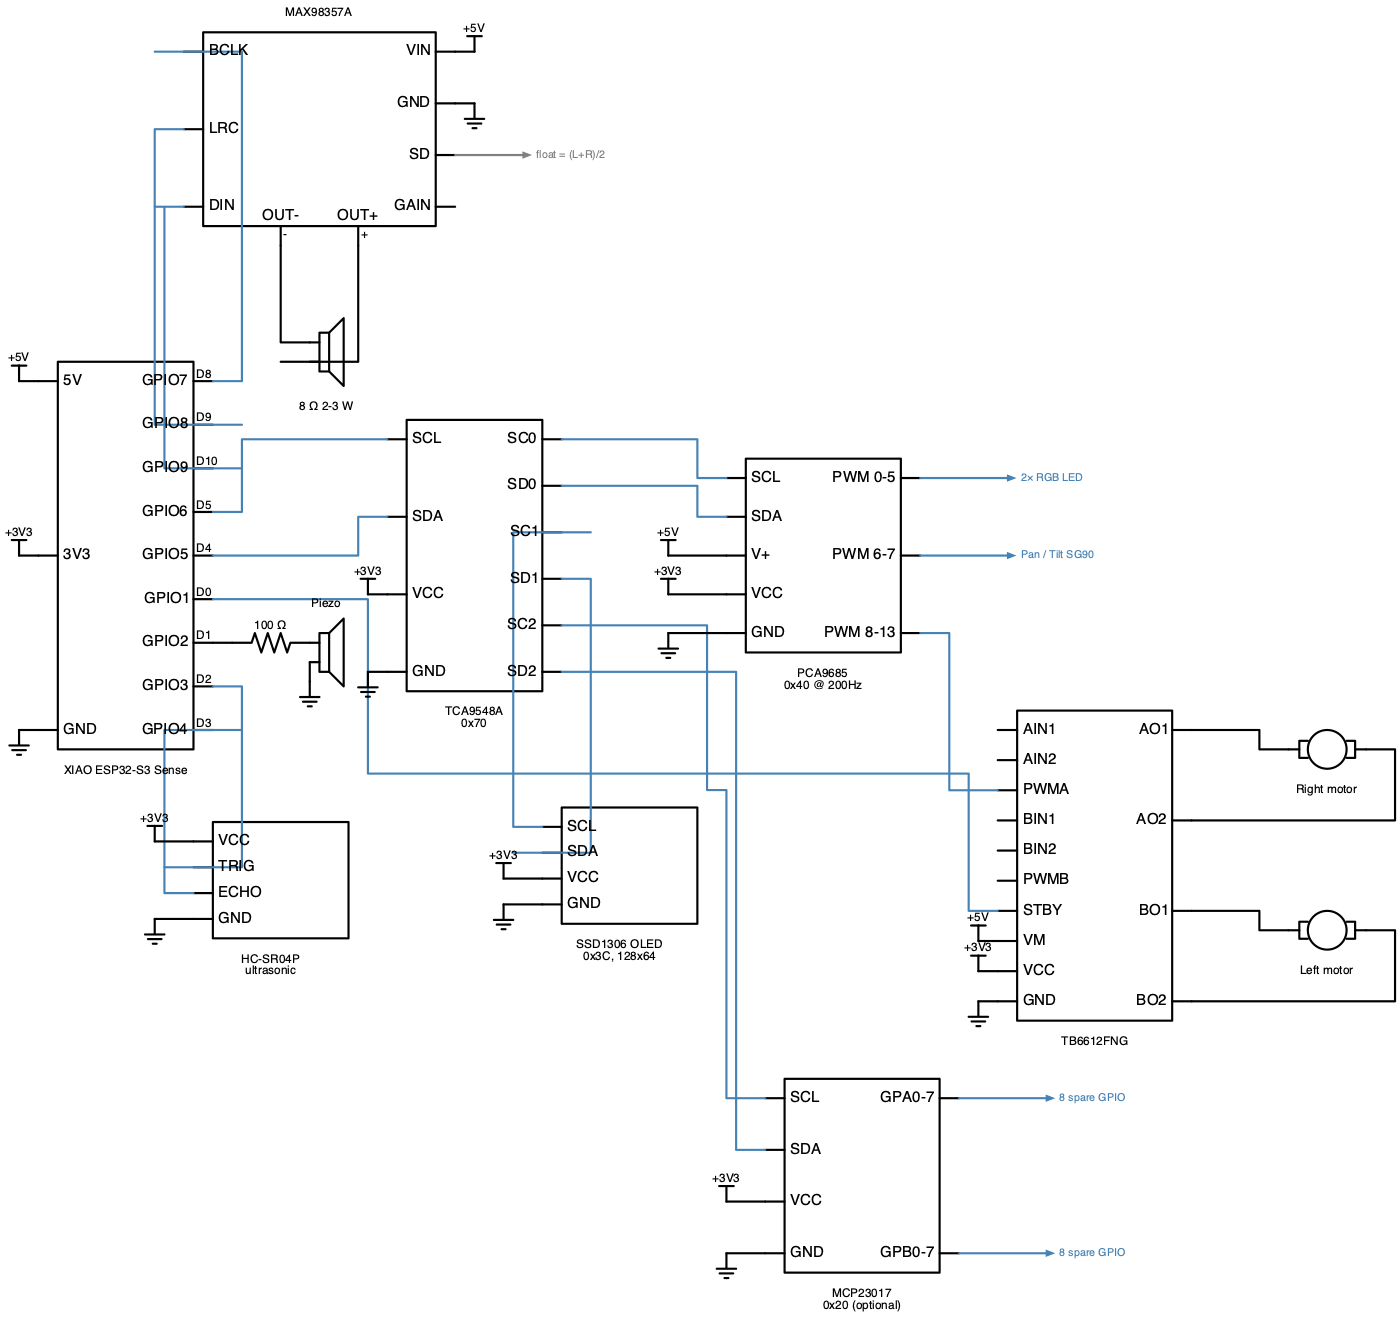
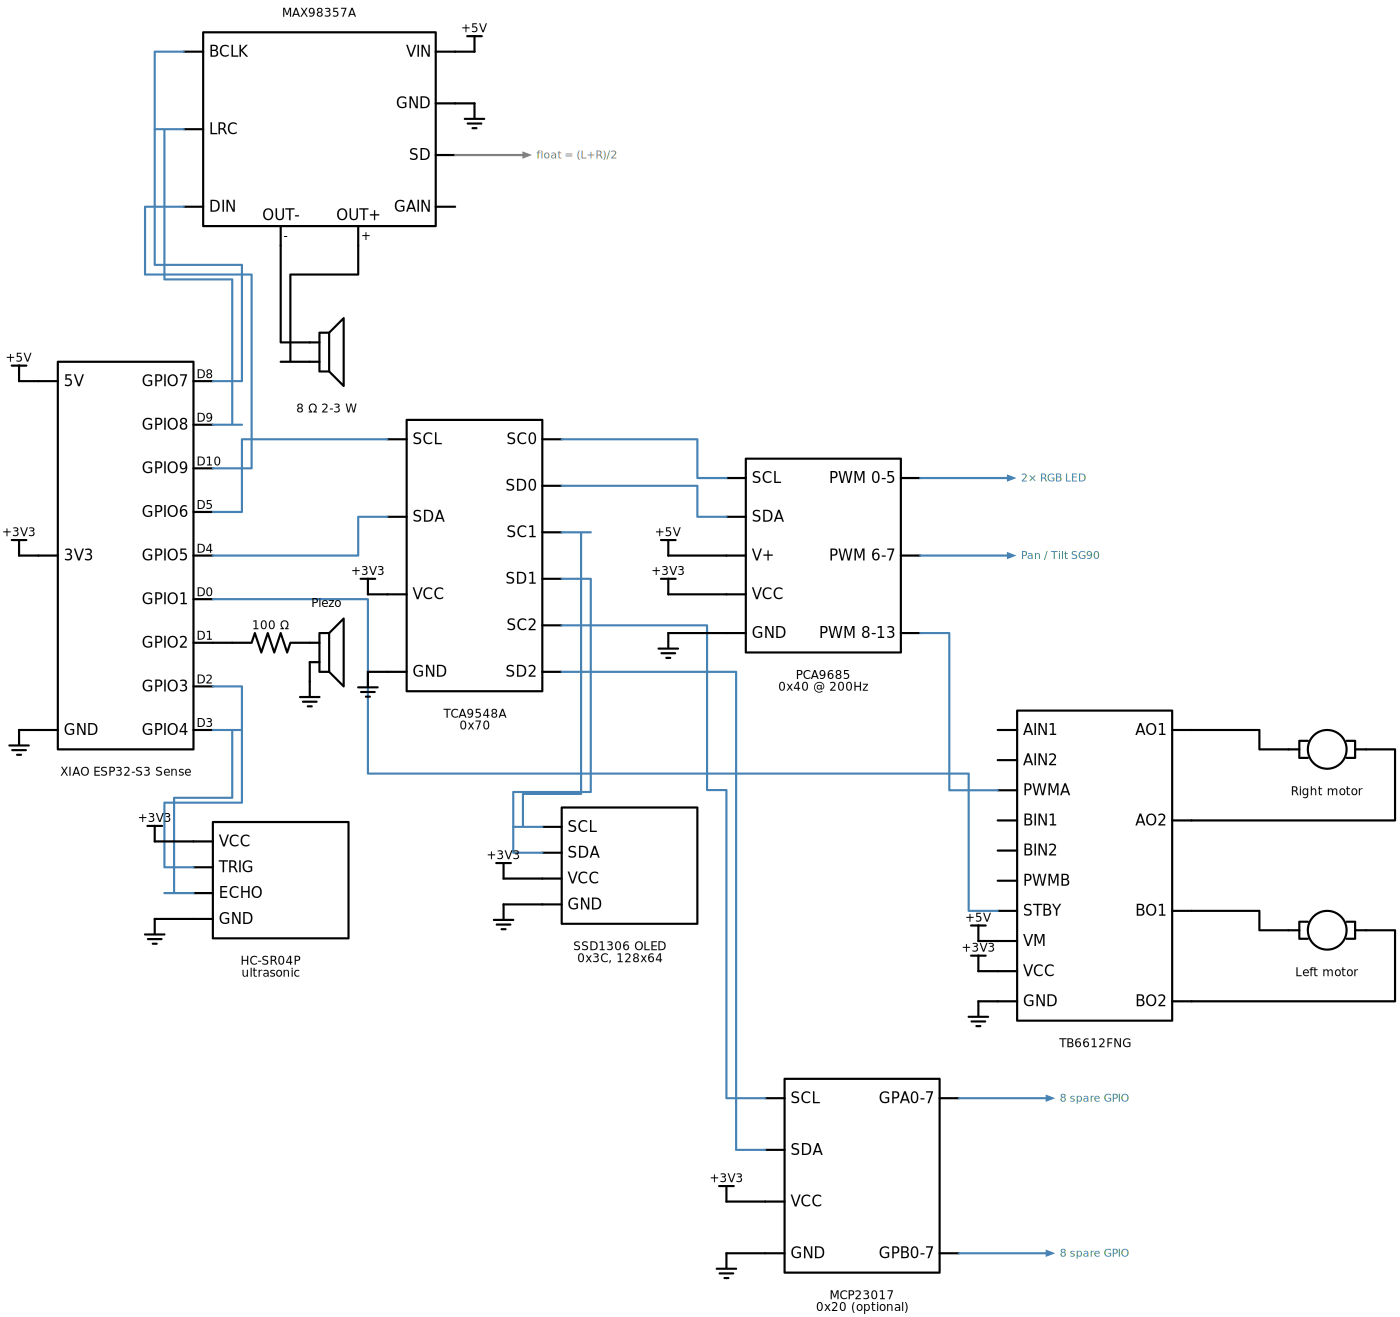
fix(schematics): stop wires tunnelling through their own terminal chip
Router.wire() dropped every box containing either raw endpoint from the
obstacle list for the whole A* search, so a net could enter its
destination chip on one side and leave on the other. The exclusion now
tests the stub points the search actually runs between: a box is dropped
only when its inflated footprint swallows a stub AND the raw box holds
that stub's pin - the overlapping-breakout case the old comment gave as
the reason for excluding at all. The pin's own chip, which the stub
already clears, stays an obstacle; a foreign box swallowing a stub
without holding its pin still fails fast (test_unreachable_goal_fails_fast).

The real-circuit fixture used to exempt exactly the boxes wire() dropped,
so it could never observe the cut-through (6 passed on the broken
geometry). It now trims a stub (+ half a grid step, for the snap) off
each end and exempts only boxes the trimmed ends still sit in. It fails
on the pre-fix code, as do two new tests: a synthetic GPIO5 -> GAIN wire
that must go around the amp, and a robocar_unified inside-body bound via
metrics.py. A third test keeps the overlapping-box case routable.

Metrics (uv run python metrics.py), before -> after:
  balancebot       len 100.65 -> 100.65  in_any  0.00 -> 0.00  cross  4 -> 4   tight 1 -> 1
  gamepad_synth    len  27.90 ->  27.90  in_any  3.83 -> 1.48  cross  0 -> 1   tight 0 -> 1
  robocar_unified  len 193.89 -> 194.89  in_any 26.43 -> 0.00  cross 11 -> 25  tight 2 -> 15
[…]

diff --git a/docs/schematics/test_routing.py b/docs/schematics/test_routing.py
@@ -135,6 +135,56 @@ def test_own_component_is_not_treated_as_an_obstacle():
     router.wire(esp.GPIO7, amp.DIN)
 
 
+def _abspoints(el):
+    at = el._userparams["at"]
+    return [(at[0] + x, at[1] + y) for x, y in el.segments[0].path]
+
+
+def _box_of(el) -> _BBox:
+    return _BBox(*el.get_bbox(transform=True, includetext=False))
+
+
+def test_wire_does_not_cut_through_its_own_destination_chip():
+    # Regression (#490): wire() used to drop every box containing either
+    # endpoint from the obstacle list for the *whole* search, so a net whose
+    # pin sits on the far side of its destination chip took the short way —
+    # straight in one side of the body and out the other. GAIN is on the
+    # amp's right edge, facing away from the ESP32; the only honest route
+    # goes around the amp.
+    d, esp, amp = _build_two_chip_drawing()
+    el = Router(d).wire(esp.GPIO5, amp.GAIN)
+    abspoints = _abspoints(el)
+    amp_box = _box_of(amp)
+
+    _segments_are_orthogonal(abspoints)
+    for p1, p2 in zip(abspoints, abspoints[1:]):
+        assert not _segment_hits_box(p1, p2, amp_box), (
+            f"routed segment {p1} -> {p2} cuts through its own chip {amp_box}"
+        )
+
+
+def test_overlapping_box_around_a_pin_and_its_stub_does_not_block_it():
+    # The legitimate reason wire() drops boxes at all: two components can
+    # overlap a little, and a second box that contains the pin *and* the
+    # stub point the search starts from would otherwise make that end
+    # unreachable outright. Narrowing the exclusion to the stub (#490) must
+    # keep this case routable.
+    d, esp, amp = _build_two_chip_drawing()
+    bx, by = float(amp.BCLK[0]), float(amp.BCLK[1])
+    d.add(
+        elm.Ic(pins=[elm.IcPin(name="X", side="L")], size=(1.5, 1))
+        .at((bx - 0.5, by))
+        .anchor("center")
+    )
+    overlap = _box_of(d.elements[-1])
+    assert overlap.contains(bx, by) and overlap.contains(bx - 0.75, by)
+
+    el = Router(d).wire(esp.GPIO5, amp.BCLK)
+    abspoints = _abspoints(el)
+    assert abspoints[-1] == (bx, by)
+    _segments_are_orthogonal(abspoints)
+
+
 def test_router_wire_defaults_to_visible_stroke():
     # Regression: passing color=None straight through to Path used to omit
     # the SVG stroke attribute entirely, which CSS defaults to `stroke: none`
@@ -180,24 +230,77 @@ def _contains_endpoint(box: _BBox, point, eps=1e-6) -> bool:
     )
 
 
+def _trim_ends(points, length):
+    """``points`` with ``length`` of polyline cut off each end.
+
+    Returns an empty list when the wire is too short to have a middle.
+    """
+
+    def trim_front(pts, remaining):
+        pts = list(pts)
+        while len(pts) >= 2:
+            (ax, ay), (bx, by) = pts[0], pts[1]
+            seg = abs(bx - ax) + abs(by - ay)  # axis-aligned: L1 == length
+            if seg > remaining:
+                f = remaining / seg
+                pts[0] = (ax + (bx - ax) * f, ay + (by - ay) * f)
+                return pts
+            remaining -= seg
+            pts.pop(0)
+        return []
+
+    front = trim_front(points, length)
+    return list(reversed(trim_front(list(reversed(front)), length)))
+
+
 def test_all_real_circuits_route_orthogonally_without_crossing_components():
-    # A wire legitimately touches the boundary of its own source/destination
-    # component (that's where the pin lives) — exclude those two boxes per
-    # wire, same as Router.wire() does internally, so only genuine
-    # cut-through-an-unrelated-component cases fail this check.
+    # Only the pin's stub lead may pass through a box: it runs from the pin,
+    # which sits on its own chip's edge (and possibly inside a neighbour
+    # that overlaps it), out to the stub point where the A* search starts.
+    # Past the stub, a wire must clear every body — including the chips it
+    # terminates on (#490). So trim a stub's worth off each end, then exempt
+    # only the boxes the *trimmed* ends still sit in: the overlapping-box
+    # case wire() exists to keep routable.
+    #
+    # This used to exempt every box containing the raw endpoints — exactly
+    # the set wire() dropped from its search — so it could never observe a
+    # wire tunnelling through its own chip. The trim is the stub plus half a
+    # grid step because the stub point is snapped to the grid.
+    probe = Router(schemdraw.Drawing(show=False))
+    trim = probe.stub + probe.grid / 2
     checked = 0
     for name, abspts, obstacles in _all_real_circuit_paths():
         _segments_are_orthogonal(abspts)
+        middle = _trim_ends(abspts, trim)
+        if not middle:
+            continue
         relevant = [
             box
             for box in obstacles
-            if not _contains_endpoint(box, abspts[0])
-            and not _contains_endpoint(box, abspts[-1])
+            if not _contains_endpoint(box, middle[0])
+            and not _contains_endpoint(box, middle[-1])
         ]
-        for p1, p2 in zip(abspts, abspts[1:]):
+        for p1, p2 in zip(middle, middle[1:]):
             for box in relevant:
                 assert not _segment_hits_box(p1, p2, box), (
                     f"{name}: routed segment {p1} -> {p2} cuts through {box}"
                 )
         checked += 1
     assert checked > 0, "no circuits were found to check"
+
+
+def test_robocar_unified_wire_stays_out_of_component_bodies():
+    # The whole-drawing figure behind #490: with every terminal box dropped
+    # for the entire search, robocar_unified carried ~26 units of wire
+    # inside component bodies — nets entering their own chip on one side
+    # and leaving on the other. Once only a stub may cross a body the
+    # figure is 0.00 here; the issue's own target was ~3 units, the length
+    # a few stub leads through boxes overlapping their pins would add. The
+    # bound admits that legitimate case, not a tunnel coming back.
+    from metrics import measure_circuits
+
+    (m,) = measure_circuits(["robocar_unified"])
+    assert m.inside_any < 3.5, (
+        f"robocar_unified routes {m.inside_any:.2f} units of wire inside "
+        "component bodies"
+    )

diff --git a/docs/schematics/routing.py b/docs/schematics/routing.py
@@ -284,10 +284,10 @@ class Router:
     ):
         """Route and draw an orthogonal, obstacle-avoiding wire from ``start`` to ``end``.
 
-        ``start``/``end`` are normally pin anchors (e.g. ``esp.GPIO5``);
-        their owning component is automatically excluded from the obstacle
-        set so the wire can leave the pin without being blocked by its own
-        chip body.
+        ``start``/``end`` are normally pin anchors (e.g. ``esp.GPIO5``). A
+        fixed stub lead carries the wire straight out of its own chip body;
+        past that stub the chip is an obstacle like any other, so a net
+        never cuts across the component it terminates on.
         """
         start = (float(start[0]), float(start[1]))
         end = (float(end[0]), float(end[1]))
@@ -296,21 +296,32 @@ class Router:
 
         start_owner = self._owning_box(start, boxes)
         end_owner = self._owning_box(end, boxes)
-        # Exclude *every* box containing either endpoint, not just the
-        # smallest ("owning") one: two components can legitimately overlap
-        # a little (e.g. densely packed pin breakouts), and if a second
-        # box also contains the goal point, leaving it in the obstacle list
-        # makes the goal unreachable outright.
-        obstacles = [
-            b
-            for raw, b in zip(boxes, inflated)
-            if not raw.contains(*start) and not raw.contains(*end)
-        ]
-
         start_dir = self._exit_direction(start, start_owner) if start_owner else None
         end_dir = self._exit_direction(end, end_owner) if end_owner else None
         entry = self._stub_point(start, start_dir) if start_dir else start
         exit_ = self._stub_point(end, end_dir) if end_dir else end
+
+        # The A* search runs from ``entry`` to ``exit_``, so a box is only in
+        # its way if its inflated footprint swallows one of those stub
+        # points. Drop exactly those, and only when the same box also holds
+        # the pin the stub hangs off: two components can legitimately
+        # overlap a little (e.g. densely packed pin breakouts), and a second
+        # box covering both a pin and its stub would otherwise make that end
+        # unreachable outright.
+        #
+        # Everything else stays an obstacle for the whole search — above
+        # all the pin's *own* chip, which the stub already clears. This
+        # used to drop every box containing either raw endpoint instead,
+        # which let a net enter its destination chip on one side and leave
+        # on the other (#490). A foreign box that swallows a stub without
+        # holding its pin is a malformed layout, and stays in so the search
+        # fails fast rather than tunnelling through it.
+        ends = ((start, entry), (end, exit_))
+        obstacles = [
+            b
+            for raw, b in zip(boxes, inflated)
+            if not any(raw.contains(*pin) and b.contains(*stub) for pin, stub in ends)
+        ]
 
         path = self._astar(entry, exit_, obstacles)
         if path is None:
